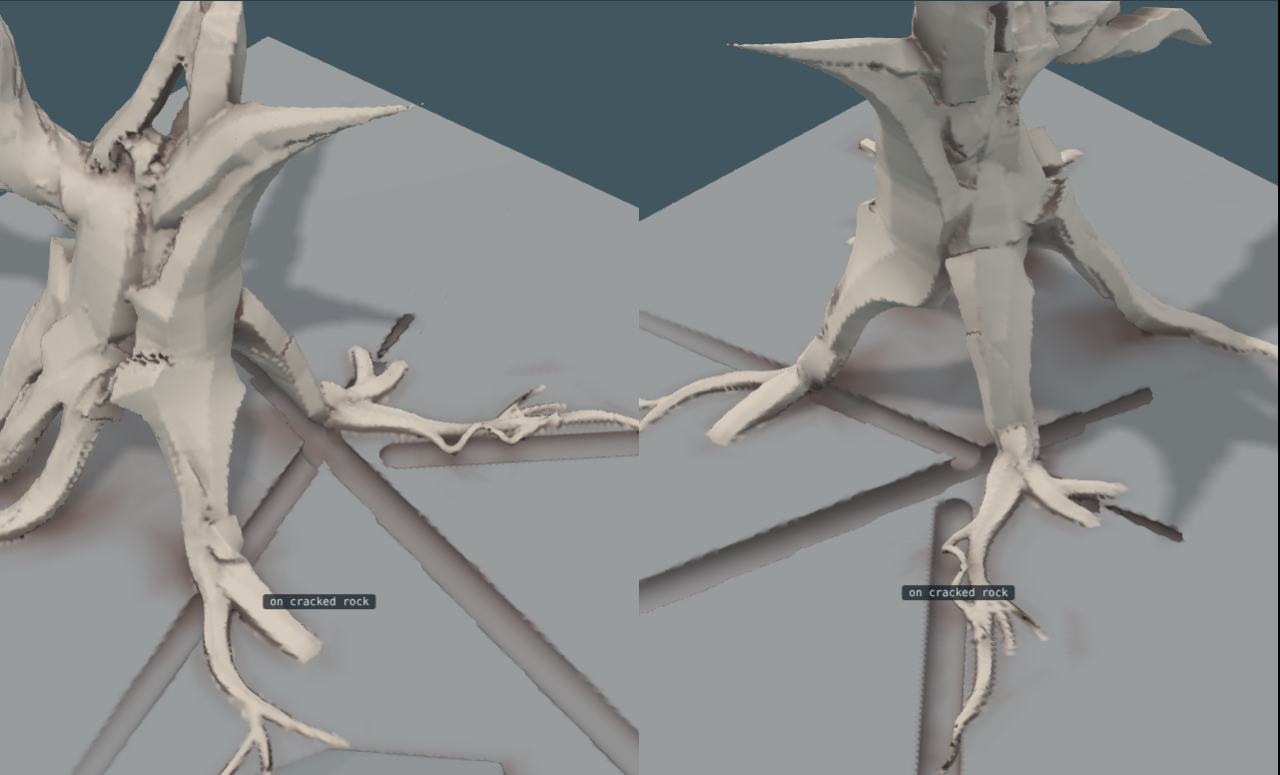
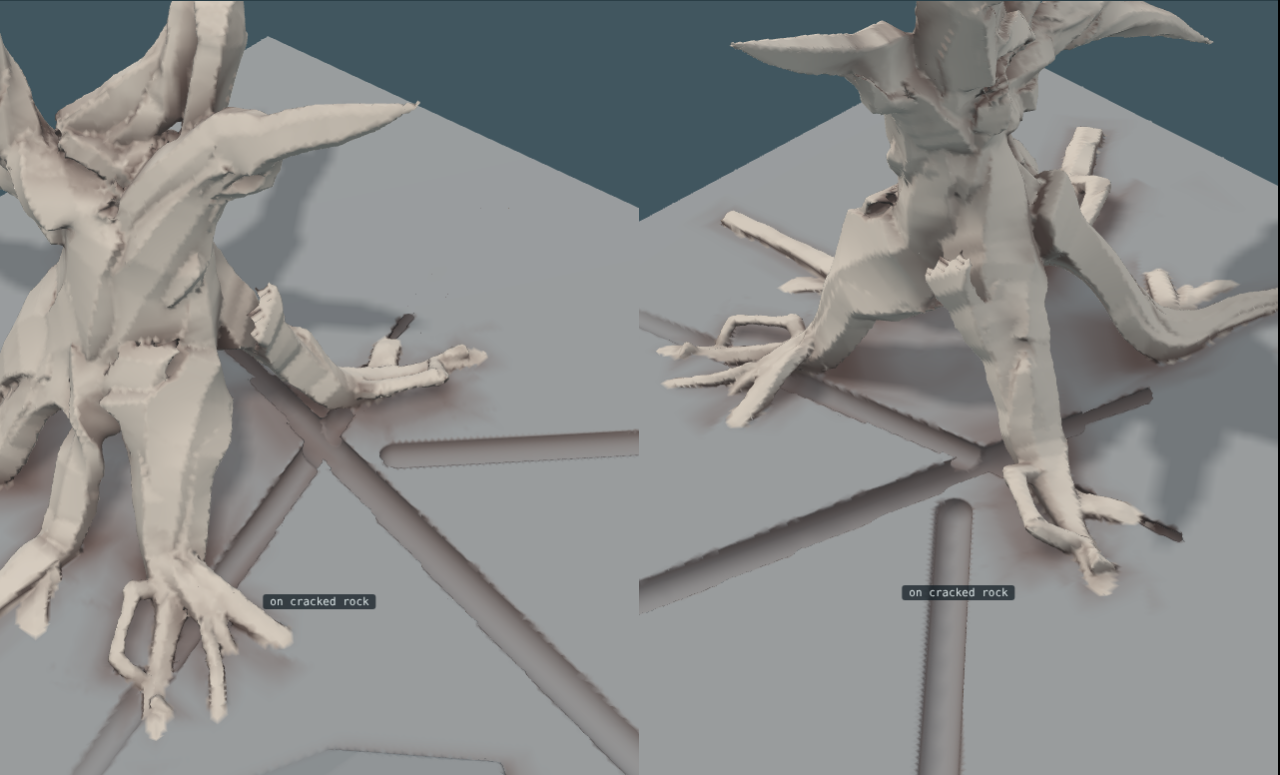
Roots hold a line and corner: a knuckle at every bend, more mass, blunter feet
Claude-Session: https://claude.ai/code/session_0192rgp75jGkttZXf7hEakip

Changed region(s): [[0.0, 0.0, 1.0, 1.0]]

diff --git a/trees.js b/trees.js
@@ -30,7 +30,7 @@
   function frames(P) { let N = null; return P.map((p, i) => { const T = unit([0, 1, 2].map((k) => P[Math.min(P.length - 1, i + 1)][k] - P[Math.max(0, i - 1)][k])); N = unit((N || [1, 0, 0.2]).map((v, k, A) => v - T[k] * dot(A, T))); return [T, N, cross(T, N)]; }); }
 
   function grow(recipe) {
-    const P = Object.assign({ strands: 8, fill: 0.75, uneven: 0.5, twist: 0.5, taut: 0.3, stiff: 0.05, hug: 0.15, bind: 0.004, roots: 0.6, wind: 1.1, mixed: false, lmax: 0, set: 0, swell: 1, feet: 0, lap: 0, ground: null, down: 0.6, crease: 3.2, seam: 0.55, seams: 7, hem: 2.2, snake: 1, air: 0.18, reach: 0.6, eyes: 0.4, hang: 0.3, bold: 0.35, brace: 0.12, bite: 1.8, forks: 1, dive: 0.12, slant: 0.75, clumps: 3, cling: 0.88, grip: 0.62, collar: 1.6, flare: 0.07, waste: 0.25, clear: 1, settle: 0, giving: 0.75, passes: 1500, ds: 0.035, seed: 1, trunk: [[0, 0.14, 0, 0.27], [0, 1.6, 0, 0.1]], limbs: [], orb: null }, recipe);
+    const P = Object.assign({ strands: 8, fill: 0.75, uneven: 0.5, twist: 0.5, taut: 0.3, stiff: 0.05, hug: 0.15, bind: 0.004, roots: 0.6, wind: 1.1, mixed: false, lmax: 0, set: 0, swell: 1, feet: 0, lap: 0, ground: null, down: 0.6, crease: 3.2, seam: 0.55, seams: 7, hem: 2.2, leg: 0.16, knuckle: 0.55, toe: 0.13, tip: 0.26, snake: 1, air: 0.18, reach: 0.6, eyes: 0.4, hang: 0.3, bold: 0.35, brace: 0.12, bite: 1.8, forks: 1, dive: 0.12, slant: 0.75, clumps: 3, cling: 0.88, grip: 0.8, collar: 1.6, flare: 0.07, waste: 0.25, clear: 1, settle: 0, giving: 0.75, passes: 1500, ds: 0.035, seed: 1, trunk: [[0, 0.14, 0, 0.27], [0, 1.6, 0, 0.1]], limbs: [], orb: null }, recipe);
     // The ground, if the tree is given one: any function of a place that is how far it is outside the ground (less than
     // nothing inside). Without one the ground is the level at height 0, as it always was. (A grown tree is always given one, level if nothing else, so that its roots are walked.)
     const G = P.ground, gradG = G ? (x, y, z) => { const e = 0.008; return unit([G(x + e, y, z) - G(x - e, y, z), G(x, y + e, z) - G(x, y - e, z), G(x, y, z + e) - G(x, y, z - e)]); } : null, rootPts = [];
@@ -73,7 +73,7 @@
     // stream, so every new thing asked of a root on ground moved every draw after it and the level-ground trees
     // changed although no rule of theirs had. They are their own question and they get their own numbers.
     let walkN = 0;
-    const walk = G ? (p0, away, rho0, len, dives, collar) => { const rw = rng(P.seed * 7919 + (walkN++) * 104729), rb2 = r, rx = [], rr = [], c0 = G(p0[0], p0[1], p0[2]), most = Math.round(len / ds) * 5, kmax = ds / (2.6 * Math.max(0.025, rho0)), wob = TAU * rw(), wl = 0.25 + 0.3 * rw();
+    const walk = G ? (p0, away, rho0, len, dives, collar) => { const rw = rng(P.seed * 7919 + (walkN++) * 104729), rb2 = r, rx = [], rr = [], c0 = G(p0[0], p0[1], p0[2]), most = Math.round(len / ds) * 5, wob = TAU * rw(), wl = 0.25 + 0.3 * rw();
       // Whether this root is one that will go over an edge at all. Most turn and run along the lip, where the
       // soil is; a `bold` one commits to the face, and once on it braces rather than hangs. A rule that tells
       // every root the same thing gives either a cliff no root will touch or a cliff every root pours down.
@@ -89,23 +89,31 @@
       const heavy = Math.max(0, Math.min(1, (rho0 / P.trunk[0][3] - 0.07) / 0.2));
       const bold = rw() < Math.min(0.9, P.bold * (0.3 + 1.9 * (1 - lieShare)) * (1.4 - 0.9 * heavy)) ? 0.12 : 1;
       const hookAt = 0.5 + 0.38 * rw();
-      let braceWay = rw() < 0.5 ? 1 : -1, braceLeft = 0, hooked = 0;
+      let braceWay = rw() < 0.5 ? 1 : -1, hooked = 0;
+      // A root is stiff. It does not wander in a curve: it holds a line, and where it changes its mind it
+      // corners. The line is as long as the root is thick -- a heavy one holds it a long way, a slight one turns
+      // often -- and only at the corner does it look around and take the best way it can see, from a wide fan.
+      // A curve is what a tentacle does. A corner is what something that is bracing itself does.
+      let legLeft = 0, legHug = 0.4 + 0.3 * Math.sin(wob), since = 9;
+      // Where it corners it makes a knuckle: the wood piles up at the bend and presses into the ground there.
+      // That is where a root is holding on, and it is what the corner is for.
+      const corners = [];
       const steepness = 0.55 + 0.9 * rw();   // no two legs come down alike: one drops, the next runs out shallow
-      let pos = p0, h = away, prog = 0, curl = 0, air = 0, gone = 0;
+      let pos = p0, h = away, prog = 0, air = 0, gone = 0;
       // A root does not taper away along its length: it keeps its weight between forks and steps down at each,
       // which is where nearly all of its thinning happens. Along a run it loses only `waste`. What it does at the
       // trunk is not taper but flare: it leaves at the trunk's own girth and is down to its running girth within
       // `flare`, under half a trunk's width. (A long smooth cone from trunk to tip is a carrot, not a root.)
-      const girth = (g, far) => rho0 * (collar ? P.grip * (1 + (P.collar - 1) * Math.pow(Math.max(0, 1 - far / P.flare), 1.6)) : 1) * (1 - P.waste * g) * (dives ? 1 : Math.pow(Math.min(1, (1 - g) / 0.22), 0.7) * 0.9 + 0.1);
+      const girth = (g, far) => rho0 * (collar ? P.grip * (1 + (P.collar - 1) * Math.pow(Math.max(0, 1 - far / P.flare), 1.6)) : 1) * (1 - P.waste * g) * (dives ? 1 : Math.pow(Math.min(1, (1 - g) / P.toe), 0.7) * (1 - P.tip) + P.tip);
       const room = (pr, own) => { if (Math.abs(pr[0]) > 0.97 || Math.abs(pr[2]) > 0.97) return 0; let near = 0.22; for (const q of rootPts) near = Math.min(near, H(pr[0] - q[0], pr[1] - q[1], pr[2] - q[2])); for (let e = 0; e < own; e++) near = Math.min(near, H(pr[0] - rx[e][0], pr[1] - rx[e][1], pr[2] - rx[e][2])); return near; };
-      for (let m = 1; m <= most && prog < len; m++) { const g = Math.min(1, prog / len), rad = girth(g, gone), nn = gradG(pos[0], pos[1], pos[2]), nk = Math.min(1.4, nook(pos, nn) * P.seams), hug = rad * (0.4 + 0.22 * Math.sin(wob + TAU * gone / wl)) - rad * P.seam * Math.max(0, nk) + rad * 0.5 * Math.max(0, Math.min(1, -nk)) - rad * P.bite * Math.max(0, 1 - Math.abs(nn[1]) - 0.45) / 0.3 * Math.max(hooked, Math.max(0, Math.min(1, nk)), 0.5 * Math.max(0, Math.sin(wob * 2 + TAU * gone / (wl * 0.55)))), want = c0 + (hug - c0) * sstep(0, P.dive + P.slant * steepness * Math.max(0, c0), gone) - (dives ? 0.3 * sstep(0.72, 1, g) : 0);
+      for (let m = 1; m <= most && prog < len; m++) { const g = Math.min(1, prog / len), rad = girth(g, gone), nn = gradG(pos[0], pos[1], pos[2]), nk = Math.min(1.4, nook(pos, nn) * P.seams), hug = rad * (legHug - P.knuckle * 0.6 * Math.max(0, 1 - since / 2.5)) - rad * P.seam * Math.max(0, nk) + rad * 0.5 * Math.max(0, Math.min(1, -nk)) - rad * P.bite * Math.max(0, 1 - Math.abs(nn[1]) - 0.45) / 0.3 * Math.max(hooked, Math.max(0, Math.min(1, nk)), 0.5 * Math.max(0, Math.sin(wob * 2 + TAU * gone / (wl * 0.55)))), want = c0 + (hug - c0) * sstep(0, P.dive + P.slant * steepness * Math.max(0, c0), gone) - (dives ? 0.3 * sstep(0.72, 1, g) : 0);
         let tt = h.map((v, k) => v - nn[k] * dot(h, nn)); const dn = UP.map((v, k) => -(v - nn[k] * nn[1])), dl = H(dn[0], dn[1], dn[2]); if (H(tt[0], tt[1], tt[2]) < 0.2) tt = dl > 1e-6 ? dn : cross(nn, [1, 0, 0]); tt = unit(tt);
-        curl = Math.max(-kmax, Math.min(kmax, curl * 0.9 + P.snake * 0.34 * kmax * (2 * r() - 1))); { const sd = cross(nn, tt); tt = unit(tt.map((v, k) => v * Math.cos(curl) + sd[k] * Math.sin(curl))); }
         // On a face it cannot lie on, a root does not hang down it: it braces. It works across the fall line in
         // runs, turning hard at the end of each so the turns are corners and not a curve, and it bites in — it is
         // pressed into the rock and comes out again further along. It is gripping, not falling.
         const onFace = Math.max(0, Math.min(1, (1 - Math.abs(nn[1]) - 0.45) / 0.3));
-        if (onFace > 0.5) { if (braceLeft <= 0) { braceWay = -braceWay; braceLeft = Math.max(2, Math.round(P.brace * (0.6 + 0.9 * r()) / ds)); } braceLeft--; } else braceLeft = 0;
+        const turning = legLeft <= 0;
+        if (turning && onFace > 0.5) braceWay = -braceWay;
         const fall = dl > 1e-6 ? dn.map((v) => v / dl) : [0, -1, 0], acr = unit(cross(nn, fall).map((v) => v * braceWay));
                 // The hook. A root that has gone over an edge does not simply stop where its length runs out: its last
         // stretch (from `hookAt` of its length, different for every root) turns back up the face and presses into it, so it ends clawed under the rock rather than
@@ -136,10 +144,16 @@
         // is rewarded without limit and a cliff is irresistible: every root on that side goes over the lip and
         // runs straight down the rock in parallel strands, which is a potato looking for water and not a tree.
         // `hang`: how willing it is to take a steep face at all.
-        for (const a of (onFace > 0.5 || brink > 0.35 || (P.crease > 0 && seamAmt > 0.5) ? [-1.3, -0.7, -0.3, 0, 0.3, 0.7, 1.3] : [-0.3, 0, 0.3])) { const c = tt.map((v, k) => v * Math.cos(a) + side[k] * Math.sin(a)), pr = pos.map((v, k) => v + c[k] * 0.07);
+        if (!turning) { legLeft--; since++; h = tt; } else {
+        for (const a of [-1.3, -0.8, -0.45, -0.18, 0, 0.18, 0.45, 0.8, 1.3]) { const c = tt.map((v, k) => v * Math.cos(a) + side[k] * Math.sin(a)), pr = pos.map((v, k) => v + c[k] * 0.07);
           const lie = 1 - Math.abs(gradG(pr[0], pr[1], pr[2])[1]);
-          const score = (hemDir ? P.hem * brink * dot(c, hemDir) : 0) + (1 - onFace) * (1 - 0.5 * brink) * (0.7 * dot(c, out) + P.down * dot(c, dn)) + onFace * 3.2 * dot(c, grip) - bold * (1 - P.hang) * 2.2 * lie * lie * (1 - onFace) + (seamWay ? P.crease * seamAmt * dot(c, seamWay) : 0) + 2.4 * room(pr, rx.length - 12) / 0.22 + (a === 0 ? 0.15 : 0) + 0.1 * r(); if (!best || score > best.score) best = { score, c }; }
-        h = best.c; let nx = pos.map((v, k) => v + h[k] * ds);
+          const score = (hemDir ? P.hem * brink * dot(c, hemDir) : 0) + (1 - onFace) * (1 - 0.5 * brink) * (0.7 * dot(c, out) + P.down * dot(c, dn)) + onFace * 3.2 * dot(c, grip) - bold * (1 - P.hang) * 2.2 * lie * lie * (1 - onFace) + (seamWay ? P.crease * seamAmt * dot(c, seamWay) : 0) + 2.4 * room(pr, rx.length - 12) / 0.22 + (Math.abs(a) < 0.2 ? 0.3 : 0) - 0.22 * Math.abs(a) + P.snake * 0.3 * r(); if (!best || score > best.score) best = { score, c, a }; }
+          h = best.c;
+          legLeft = Math.max(2, Math.round((onFace > 0.5 ? P.brace * (0.6 + 0.9 * r()) : P.leg * (0.75 + 1.1 * heavy) * (0.6 + 0.8 * r())) / ds));
+          legHug = 0.4 + 0.3 * Math.sin(wob + TAU * gone / wl);
+          if (rx.length) corners.push([rx.length, Math.min(1, Math.abs(best.a) / 0.75)]);
+          since = 0; }
+        let nx = pos.map((v, k) => v + h[k] * ds);
         // it lets go only where the ground itself drops away ahead of it, and never while it is still coming down
         const ahead = pos.map((v, k) => v + h[k] * 0.16), falls = G(ahead[0], ahead[1], ahead[2]) - G(pos[0], pos[1], pos[2]) > 0.1;
         const may = gone > 1.5 * P.dive && g < 0.7 && air < 1 && falls && r() < P.air; let flew = false;
@@ -164,6 +178,7 @@
         // coming down to the ground counts little toward its length. Going down a face is not free any more: it was,
         // and a root that went over a lip then ran on to the bottom of the cliff however far that was.
         hooked = hook; const coming = G(nx[0], nx[1], nx[2]) > 3 * rad, working = onFace > 0.5 && bold < 1; prog += ds * (coming ? 0.3 : working ? 0.5 : 1); gone += H(nx[0] - pos[0], nx[1] - pos[1], nx[2] - pos[2]); pos = nx; rx.push(nx); rr.push(rad); }   // (gone is real distance: counted as ds while the step also drops, the descent comes out far steeper than `slant` asks)
+      for (const [c, hard] of corners) for (let d = -1; d <= 1; d++) { const k = c + d; if (k >= 0 && k < rr.length) rr[k] *= 1 + P.knuckle * hard * (d ? 0.55 : 1); }
       return { rx, rr }; } : null;
     // every strand has a place in the bundle's section, and a girth of its own (mixed: most thin, a few heavy)
     const S = Array.from({ length: n }, (_, j) => { const d = Math.sqrt((j + 0.5) / n), a = j * GA + 0.5 * (r() - 0.5); return { a: d * Math.cos(a), b: d * Math.sin(a), fat: P.mixed ? 0.35 + 1.9 * Math.pow(r(), 2.5) : 1 + P.uneven * (r() - 0.5), limb: -1, give: r() < P.giving ? 1 : 0.25 * r() }; });
@@ -282,11 +297,12 @@
       const up = onGround ? gradG(a[0], a[1], a[2]) : unit(cross(tg, Math.abs(tg[1]) < 0.85 ? UP : [1, 0, 0]));
       const big = onGround ? 1 : 1.9;
       const sd = unit(cross(up, tg)), wide = rmid * big * (4 + 3.5 * re()) * (re() < 0.5 ? 1 : -1), rise = rmid * big * (2.2 + 2.6 * re());
-      const n2 = span * 2, X = [], rr = [];
-      for (let e = 0; e <= n2; e++) { const t = e / n2, lift = Math.sin(PI * t);
+      const n2 = span * 2, X = [], rr = [], c1 = 0.18 + 0.5 * (share - 0.2), c2 = 1 - (0.18 + 0.5 * (0.36 - share));
+      for (let e = 0; e <= n2; e++) { const t = e / n2, lift = Math.max(0, Math.min(1, t / c1, (1 - t) / (1 - c2)));
         let q = [0, 1, 2].map((c) => a[c] + (b[c] - a[c]) * t + sd[c] * wide * lift + (onGround ? 0 : up[c] * rise * lift * 0.5));
         if (onGround) for (let it = 0; it < 3; it++) { const gn = gradG(q[0], q[1], q[2]), gv = G(q[0], q[1], q[2]); q = q.map((v, c) => v + gn[c] * (rmid * 0.45 + rise * lift - gv)); }
-        X.push(q); rr.push(rmid * Math.sqrt(share) * (1.45 - 0.62 * lift)); }
+        const bend = Math.max(0, 1 - Math.min(Math.abs(t - c1), Math.abs(t - c2)) / 0.12);
+        X.push(q); rr.push(rmid * Math.sqrt(share) * (1.45 - 0.62 * lift) * (1 + 0.3 * P.knuckle * bend)); }
       for (let k = Math.min(ka, kb); k <= Math.max(ka, kb); k++) par.rho[k] *= Math.sqrt(1 - share);
       for (const k0 of [ka, kb]) for (let d = -2; d <= 2; d++) { const k = k0 + d; if (k < 0 || k >= par.K) continue; par.rho[k] *= 1 + 0.3 * (1 - Math.abs(d) / 3); }
       const K2 = X.length, flat = Float64Array.from(X.flat());

diff --git a/LOG.md b/LOG.md
@@ -3673,3 +3673,73 @@ Wrong, or not there:
   it is standing on.
 - A bold root goes over a face. It still has no sense of what is at the
   bottom, and reaches it only because the ground happens to be there.
+
+## Roots are stiff: a line held, a corner taken, a knuckle at the bend
+
+The roots read as tentacles. Tepid stings, jellyfish: no rigidity of their
+own, which is the one thing a root has to have.
+
+The cause was in the walk, and it was not tautness. Every step turned a
+little: a rolling curvature, damped and re-randomised, kept inside what the
+girth allowed. However far such a thing wanders it can only make a curve,
+and a curve is what something limp makes. (This is the same lesson as the
+branches' elbows, from the other side. There the fault was too little
+turning, here too much of it, and the answer is the same both times:
+put the turning in one place and let the rest be straight.)
+
+So a root now holds its line. It goes straight -- the heading it has, laid
+on the ground, which bends only as the ground bends -- for a run as long as
+it is thick: a heavy root holds its line a long way, a slight one turns
+often. Only at the end of a run does it look around, from a fan of nine
+ways out to 75 degrees either side, and take the best. Then it holds that.
+
+Two things follow from the corner, and they are what makes it read as
+strength rather than as a zigzag:
+
+- **The knuckle.** At the bend the wood piles up and presses into the
+  ground: wider by up to half again over three steps, and sunk by half a
+  radius more. The harder the corner the bigger the knuckle. A corner is
+  where a root is holding on, and this is what the corner is for.
+- **The depth is held along a run.** It was a slow sine along the root's
+  own length, which is more wandering of the same kind. It is flat along a
+  run now and steps at the corner, so the knuckle is a step down and not a
+  swell on a wave.
+
+Lengths, by picture, on the cliff tree:
+
+      run 0.10   many corners, which average back into a curve: the thing
+                 the change was for, undone
+      run 0.16   a thigh, a knee, a shin, a foot -- kept
+      run 0.24   long bones, few joints: a stick insect
+
+Two more changes in the same direction, both by eye and then checked:
+
+- **Mass.** `grip` 0.62 -> 0.8. The roots were wiry for their length. At
+  the most loaded ring the roots now come to 0.81 of the trunk's section,
+  where they came to 0.45 -- nearer what the pipe model would say, and
+  still inside the rule that they may not exceed it.
+- **Blunter feet.** The taper ran over the last 22% of the length down to a
+  tenth of the girth, which left a long wiry tail. It is the last 13% down
+  to a quarter: the limb carries its weight out to the foot and then ends.
+
+What this costs: every tree on ground is re-walked, so page 9's roots and
+limbs are not the lines they were. Page 7's four are untouched (they have
+no ground, so nothing walks) and fingerprint exactly as before.
+
+Wrong, or not there:
+- The corner is chosen in the plane of the ground. A root's bends are all
+  in plan; nothing knees downward into the soil except where the ground
+  itself falls, so from the side a root is still a fairly even descent.
+- A knuckle is a swelling of the whole section. The wood ought to pile on
+  the outside of a bend and be drawn thin on the inside, which needs the
+  line moved and not only the girth.
+- The eyes are still smooth arches, laid out by sine. Against roots made of
+  straight runs they are now the limpest thing on the tree.
+
+And the eyes with them: an eye of wood is two straight runs out and back
+with corners, not a sine arch, and the wood piles at its two bends as it
+does at a root's. The proportions of the trapezoid come from the share of
+the section the eye took, so no two are alike.
+
+      page 9's lines, from here   1f56c8eb6f 4cf2326b26 88b7a470c3 9c164ef91a 1a82562001
+      page 7's four, unchanged    e387ada36c 17dc01b122 a61f129179 b2eac9db5f
